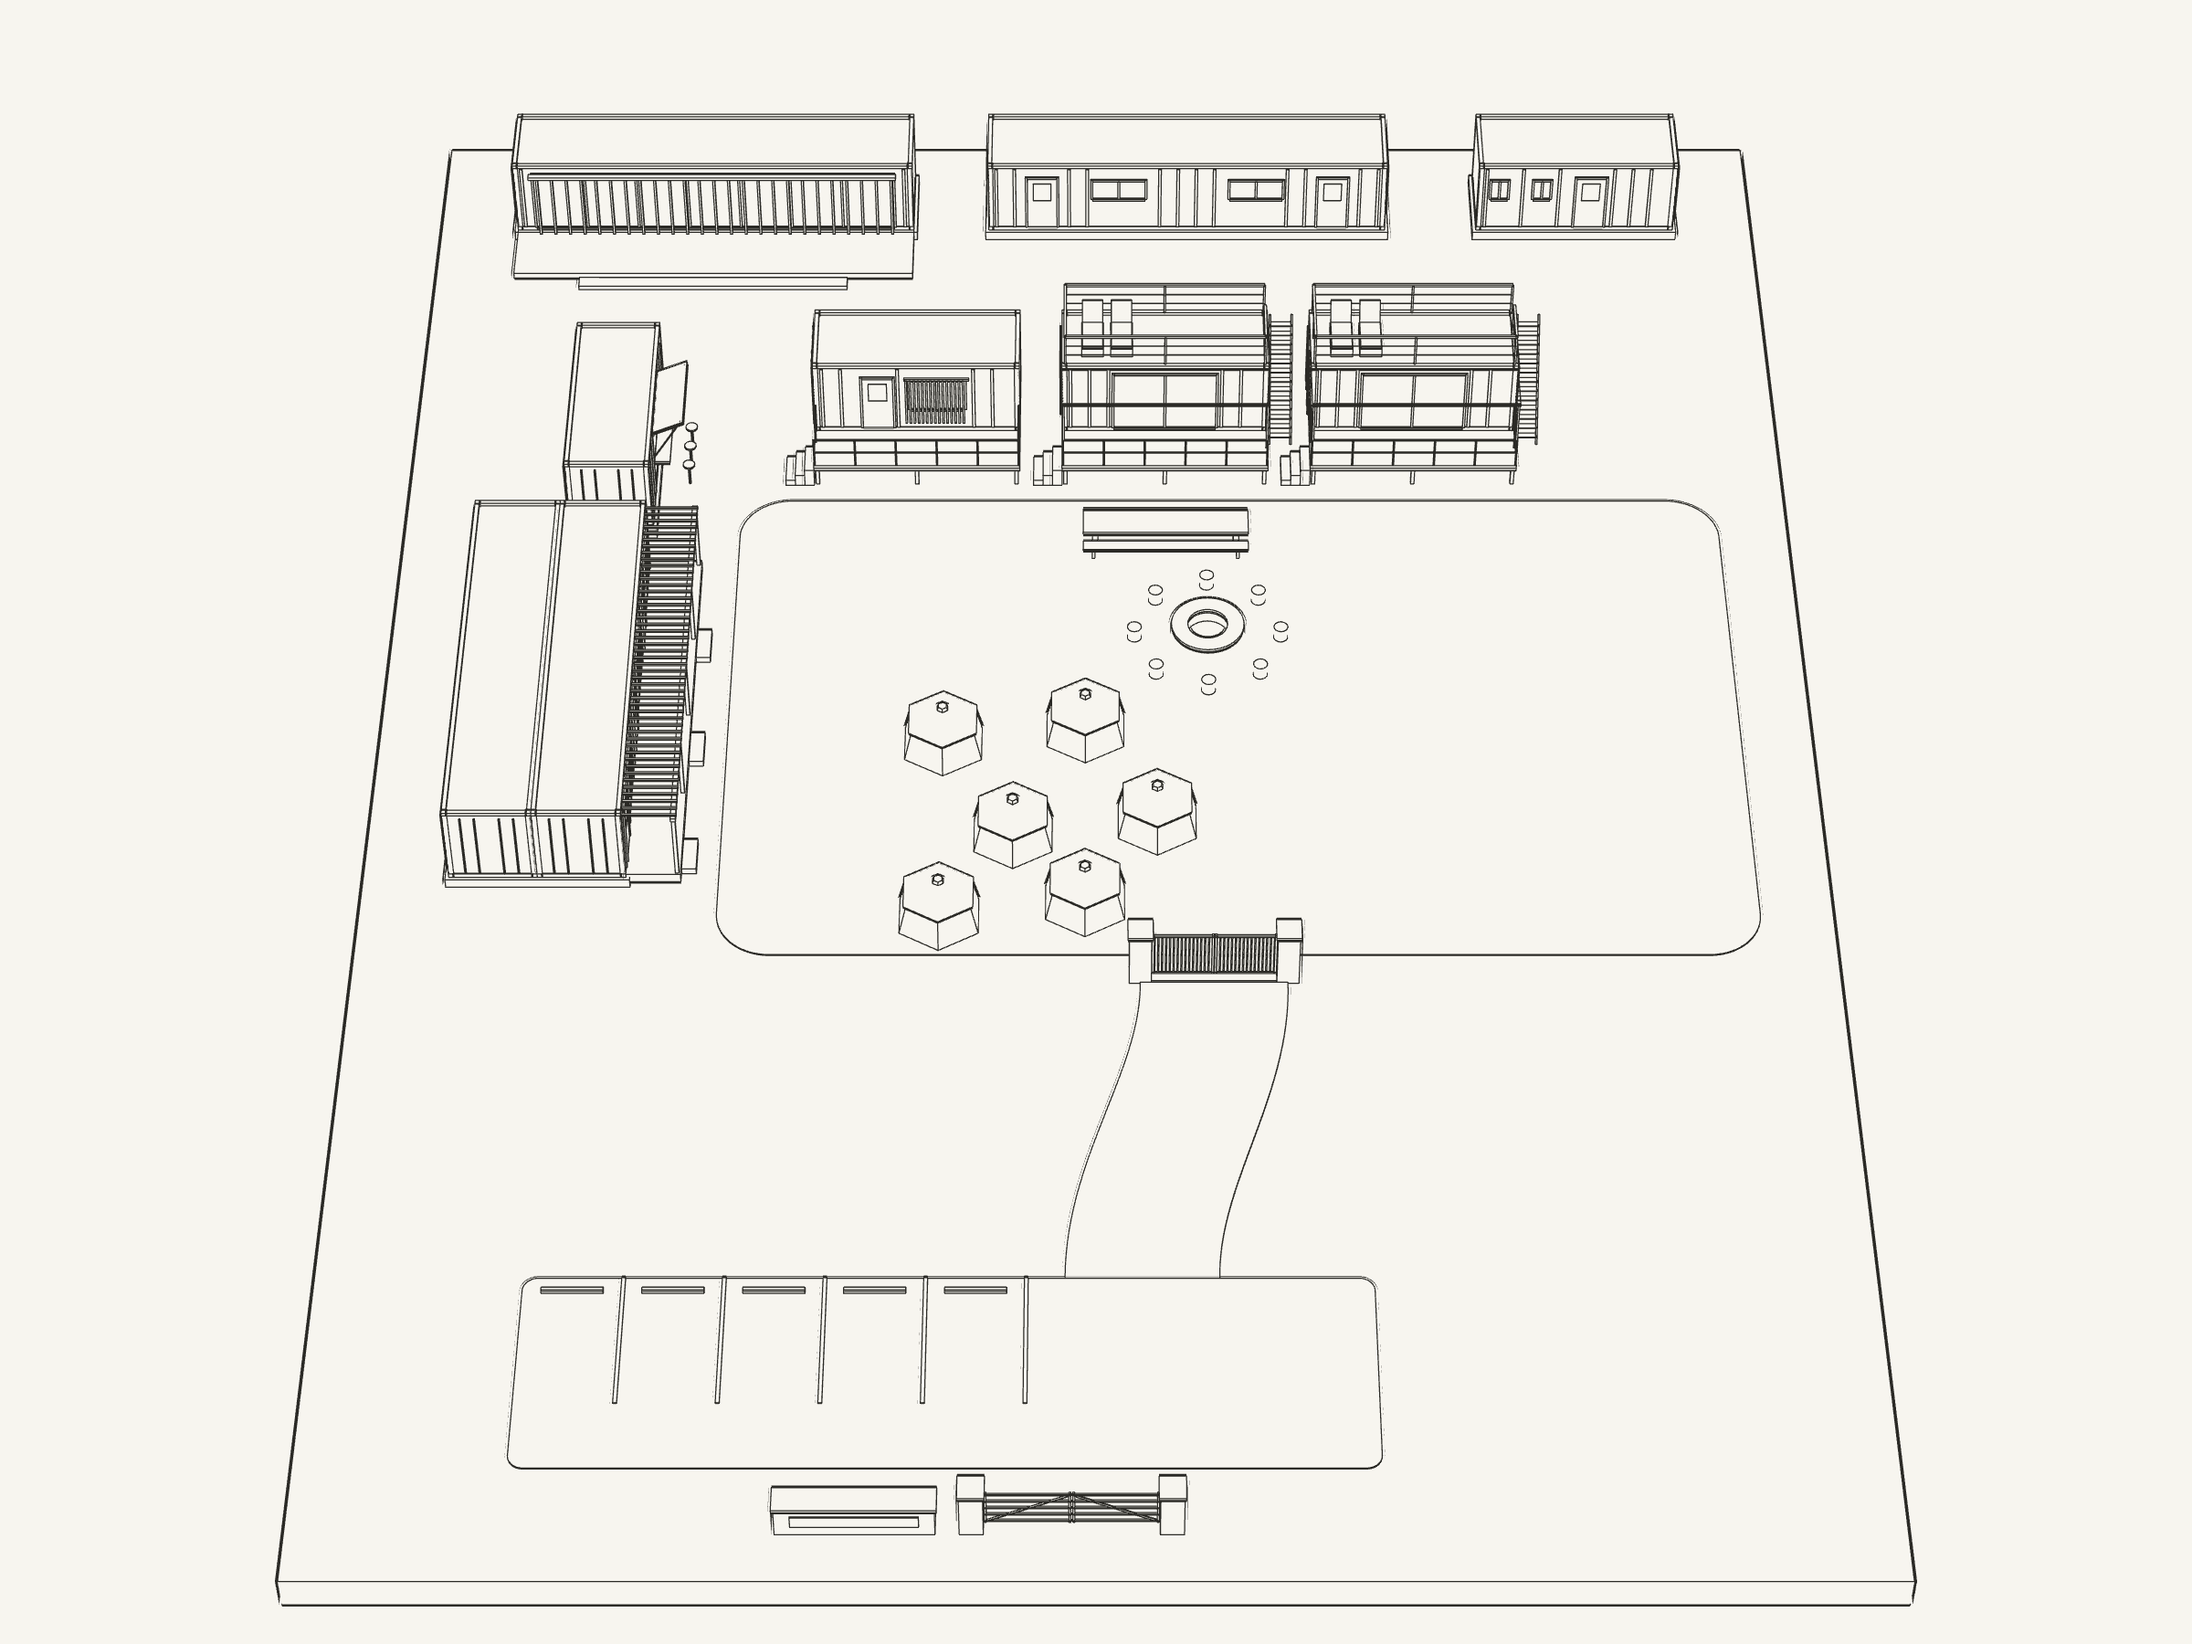
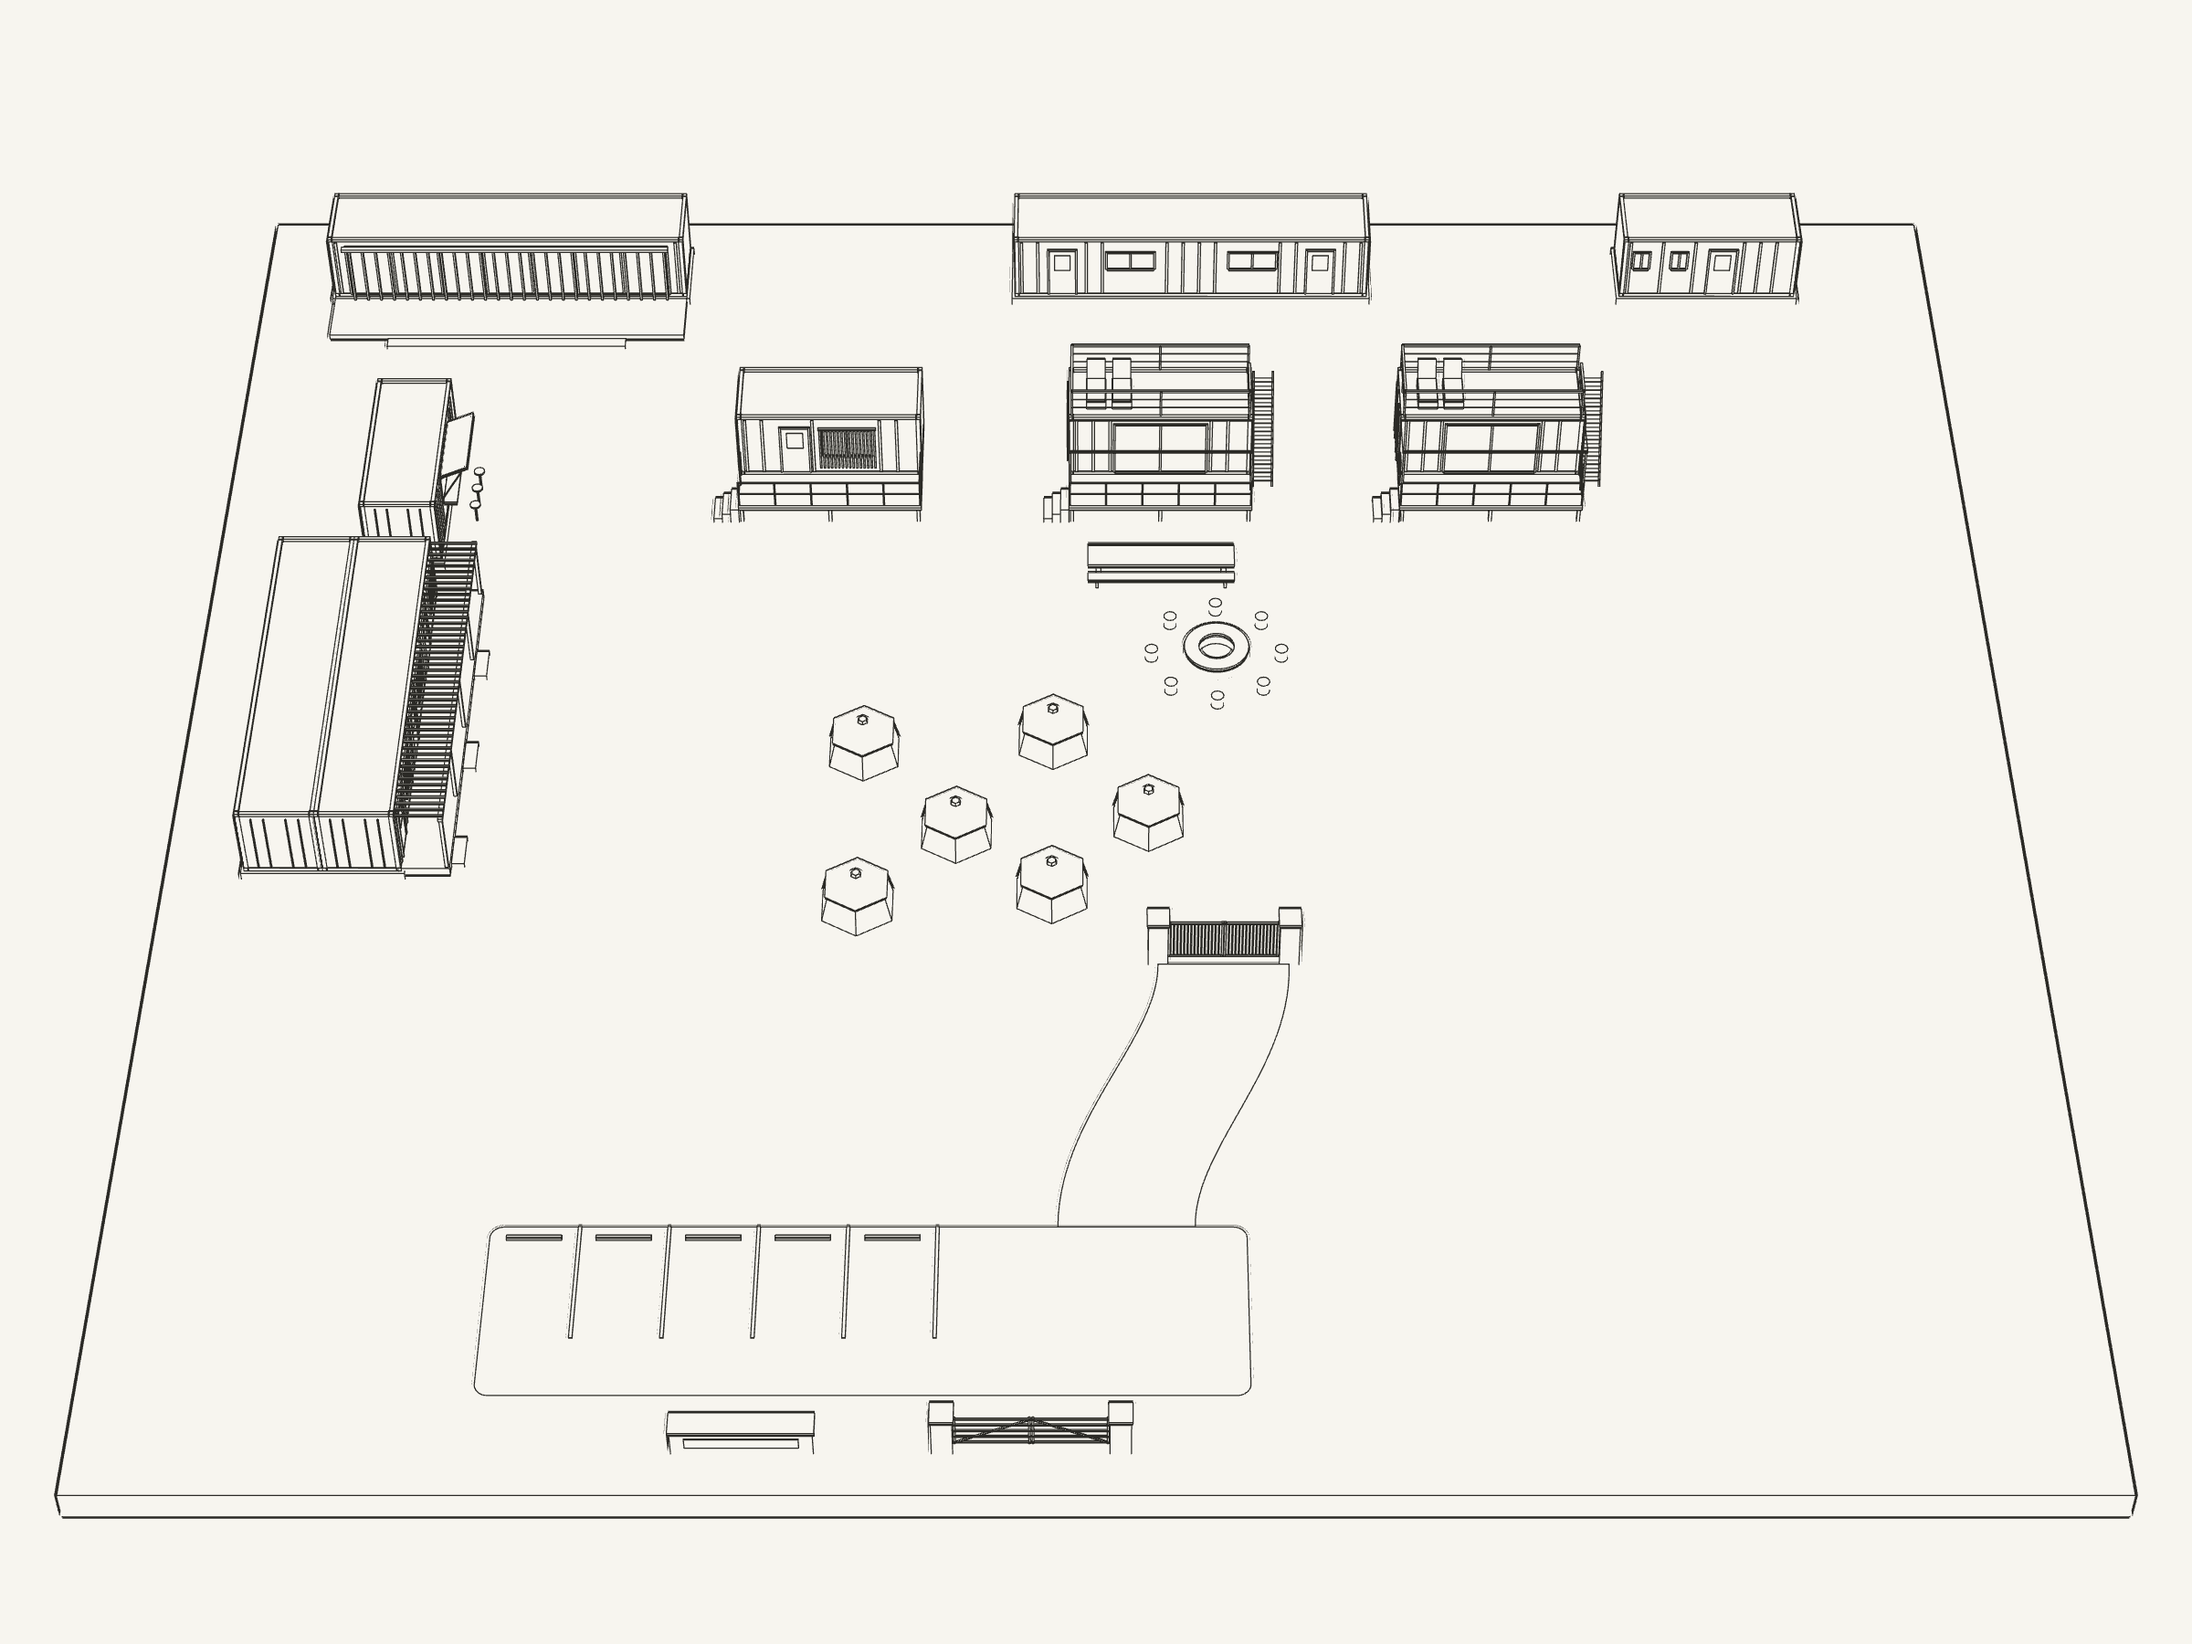
feat(home): 3D across the full width, in the 2D's positions, no courtyard outline
The founder asked for the 3D at full width: the section drops its screen-
height box, and the model takes the 2D's sideways spread (now one setting in
compound.json that both read), so it fills the width and matches the 2D.
The courtyard loses its outline in the 3D too: one lawn covers the base.

Claude-Session: https://claude.ai/code/session_01S6J7Hi5HC8BwLHu6Wj1ANE

diff --git a/scripts/site/render/compound.html b/scripts/site/render/compound.html
@@ -47,6 +47,33 @@ const [FW, FH] = [2400, 1800]
 const C = await (await fetch(`/src/components/home/compound.json?${Date.now()}`)).json()
 const INK = "#2b2a26", PAGE = "#f7f5ef" // the farm theme's soil and chalk
 const HC = 2.591 // a container's height
+// The 2D sets the compound half as far apart again sideways for a wide screen (compound.json's spread),
+// every building at its true size; the model takes the same positions, so it reads as the 2D does.
+{
+  const { factor, mid } = C.spread
+  const SX = (x) => mid + (x - mid) * factor
+  const shift = (x0, x1) => SX((x0 + x1) / 2) - (x0 + x1) / 2
+  const moveBox = (b) => { const d = shift(b[0], b[2]); return [b[0] + d, b[1], b[2] + d, b[3]] }
+  for (const u of C.units) u.box = moveBox(u.box)
+  const unit = Object.fromEntries(C.units.map((u) => [u.id, u]))
+  const rooms = unit.rooms.box
+  // as on the 2D: the bar flush with the guest rooms' courtyard side, the study room's end with their far side
+  const bw = unit.bar.box[2] - unit.bar.box[0]
+  unit.bar.box = [rooms[2] - bw, unit.bar.box[1], rooms[2], unit.bar.box[3]]
+  const sw = unit.study.box[2] - unit.study.box[0]
+  unit.study.box = [rooms[0], unit.study.box[1], rooms[0] + sw, unit.study.box[3]]
+  const p = shift(C.parking.box[0], C.parking.box[2])
+  C.parking.box = [C.parking.box[0] + p, C.parking.box[1], C.parking.box[2] + p, C.parking.box[3]]
+  C.parking.bays = C.parking.bays.map((x) => x + p)
+  C.sign = moveBox(C.sign)
+  for (const g of [C.gate, C.innerGate]) { const d = shift(g.x[0], g.x[1]); g.x = [g.x[0] + d, g.x[1] + d] }
+  C.rockRoad.curve = C.rockRoad.curve.map(([x, z]) => [SX(x), z])
+  C.courtyard.firePit = [SX(C.courtyard.firePit[0]), ...C.courtyard.firePit.slice(1)]
+  const cb = C.courtyard.box // the lawn widens with the spread
+  C.courtyard.box = [SX(cb[0]), cb[1], SX(cb[2]), cb[3]]
+  C.outdoor.tents = C.outdoor.tents.map(([x, z]) => [SX(x), z])
+  C.outdoor.longTable.x = SX(C.outdoor.longTable.x)
+}
 // plan (x east, y south) -> three: x = x, y = height, z = y
 
 const renderer = new THREE.WebGLRenderer({ antialias: true, preserveDrawingBuffer: true, alpha: true })
@@ -361,8 +388,12 @@ function group(build, pos, rotY = 0) {
 
 // ------------------------------------------------------------ the site
 // As the 2D draws it: the compound on its ground, a model base, with no lake, road or trees (D-022).
-const [MX0, MX1, MZ0, MZ1] = [2.6, 43, -8.4, 45.6]
-slab([MX0, MZ0, MX1, MZ1], 0.01, -1.0, 1.0, "meadow", { sides: "soil" })
+// the base reaches 2.5 m past the outermost buildings east and west
+const MX0 = Math.min(...C.units.map((u) => u.box[0])) - 2.5
+const MX1 = Math.max(...C.units.map((u) => u.box[2]), C.courtyard.box[2]) + 2.5
+const [MZ0, MZ1] = [-8.4, 45.6]
+// one lawn over the whole base, its top level with the old courtyard lawn: no courtyard outline, as the 2D
+slab([MX0, MZ0, MX1, MZ1], 0.01, -1.0, 1.035, "lawn", { sides: "soil" })
 
 // the outer gate: fieldstone posts, galvanised five-bar leaves open into the site; the sign wall beside it
 function post([x0, z0, x1, z1], h) {
@@ -425,10 +456,9 @@ gate(C.gate, 1.3, "bars")
 }
 gate(C.innerGate, 1.6, "slats")
 
-// the courtyard lawn and the stone fire pit already on site (stepping stones, if any are listed)
+// the stone fire pit already on site (stepping stones, if any are listed); the courtyard is the base's lawn
 {
-  const { box, r, firePit: [px, pz, pr, pin], stones } = C.courtyard
-  slab(box, r, 0, 0.035, "lawn", { noShadow: true })
+  const { firePit: [px, pz, pr, pin], stones } = C.courtyard
   ring(px, pz, pr, pin, 0, 0.5, "stone")
   ring(px, pz, pr + 0.04, pin - 0.03, 0.5, 0.08, "concrete") // the smooth cap on today's pit
   cyl(px, pz, pin, 0.02, 0.06, "ash", 32)

diff --git a/src/components/home/model.tsx b/src/components/home/model.tsx
@@ -2,18 +2,18 @@ import { copy } from "./copy"
 
 const R = "/designs/compound/render"
 
-// 3D, in /en/studio's pattern: the compound as a line drawing, then the same view rendered with
-// materials and sun. Both come from scripts/site/render/compound.html, built from compound.json like
+// 3D, in /en/studio's pattern and across the full width like the 2D: the compound as a line drawing,
+// then the same view rendered with materials and sun. Both come from scripts/site/render/compound.html, built from compound.json like
 // the 2D plan; /designs is not cached for good, so a new render keeps its URL.
 export function Model() {
   const { title, line, real, caption } = copy.model
   return (
     <section id="model" aria-labelledby="model-title">
-      <div className="flex flex-col px-4 pt-10 pb-6 md:px-10 lg:h-[calc(100svh-var(--header-height))] lg:min-h-[560px]">
+      <div className="px-4 pt-10 pb-6 md:px-10">
         <h2 id="model-title" className="text-3xl font-semibold tracking-tight">
           {title}
         </h2>
-        <div className="mt-6 flex min-h-0 flex-1 items-center justify-center">
+        <div className="mt-6">
           {/* eslint-disable-next-line @next/next/no-img-element */}
           <img
             src={`${R}/compound-line.png`}
@@ -22,7 +22,7 @@ export function Model() {
             alt={line}
             loading="lazy"
             decoding="async"
-            className="w-full object-contain lg:max-h-full"
+            className="h-auto w-full"
           />
         </div>
       </div>

diff --git a/src/components/home/compound-plan.tsx b/src/components/home/compound-plan.tsx
@@ -13,8 +13,7 @@ type Unit = (typeof compound.units)[number]
 // bottom, guest rooms and bar on the left), then spread it sideways for a wide screen: positions move
 // apart across the drawing, every building keeps its size.
 const SIZE = 46
-const SPREAD = 1.5
-const MID = 23
+const { factor: SPREAD, mid: MID } = compound.spread
 const X = (x: number) => MID + (x - MID) * SPREAD
 const P = ([x, y]: Point) => [X(x), SIZE - y]
 const B = ([x0, y0, x1, y1]: Box) => {

diff --git a/study/execution/decision-log.md b/study/execution/decision-log.md
@@ -90,3 +90,5 @@ Update 2026-10-27 (D-022): the camping lawn moves to sit between the fire pit an
 Update 2026-10-27 (D-022): correction: the founder meant the camping lawn to run from the fire pit toward the guest rooms, ending at the fire pit. It now sits between the guest rooms and the fire pit, its east end flush with the fire pit's west edge, set a little toward the inner gate; the walk from the inner gate to the fire is clear again.
 
 Update 2026-10-27 (D-022): the homepage 3D follows the studio's 3D: the compound seen from the front, from beyond the gates, mirrored the way the 2D is (guest rooms on the left, the study room at the back) and without the lake, road or trees. Its details follow the 2026-10-25 footage: corrugated container walls, white-framed sliding doors, red pipe railings with the deck stairs at the deck ends, a concrete cap on the stone fire pit, and hexagonal pop-up tents with mesh windows (one with a green fly).
+
+Update 2026-10-27 (D-022): the homepage 3D spans the full width like the 2D and takes the 2D's positions: the sideways spread now lives in compound.json (`spread`), read by both drawings, every building at its true size. The courtyard has no outline in either: one lawn covers the 3D's base.
